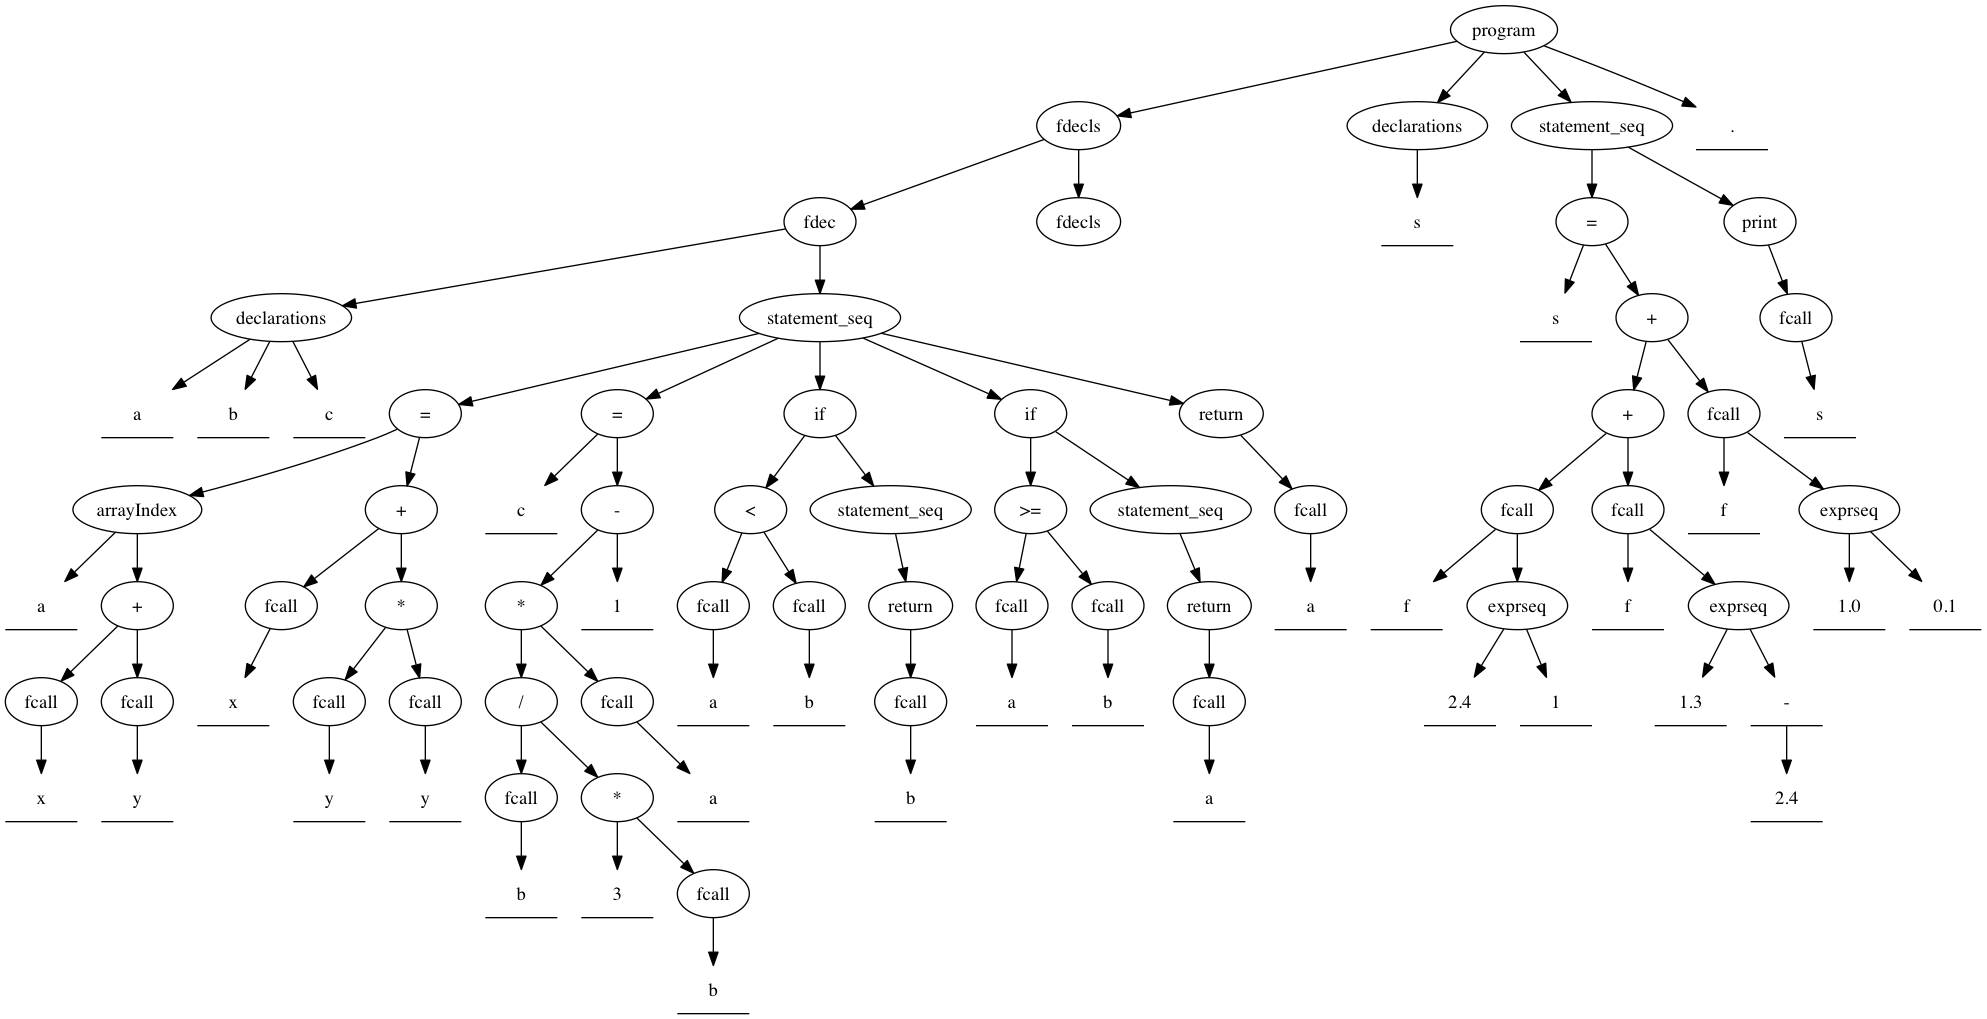
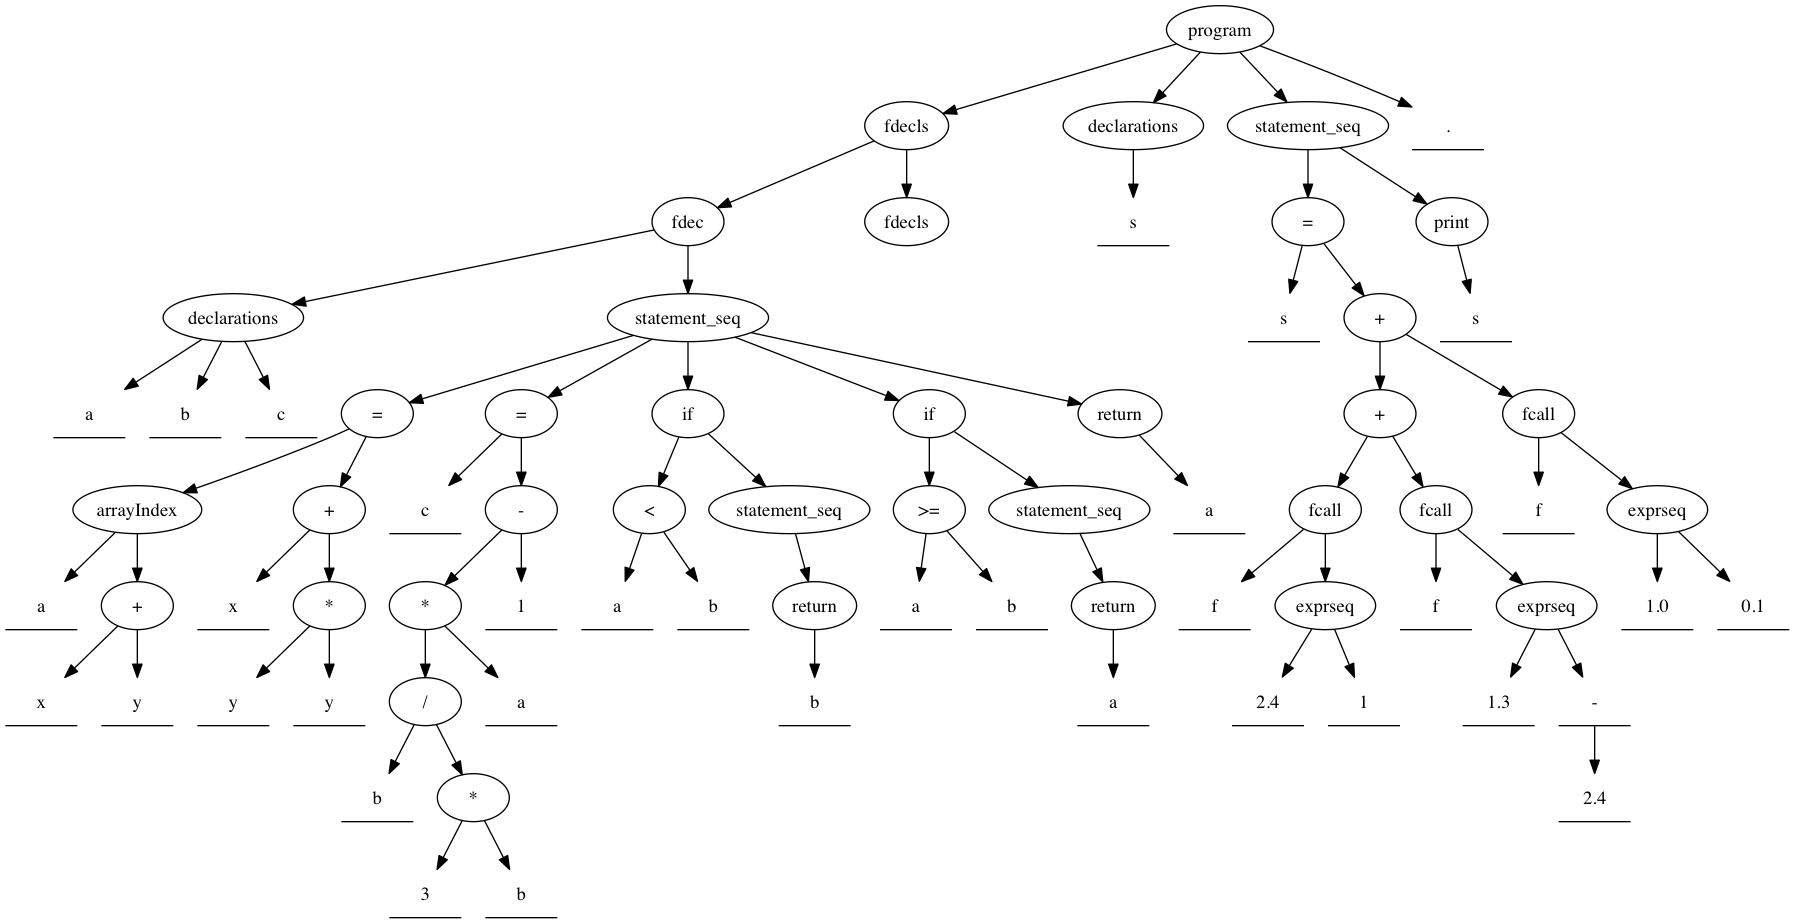
fcall only shown for function calls

diff --git a/parser.java b/parser.java
@@ -740,11 +740,8 @@ class Parser {
 
     Token ll = lookAhead();
     if (in(VAR_FIRST, ll.type)) {
-      Tree fcall = new Tree("fcall");
       Tree var = var();
-      fcall.addChild(var);
-      factorPrime(fcall);
-      return fcall;
+      return factorPrime(var);
     } else if (in(NUM_FIRST, ll.type)) {
       return match(TokenType.NUM, "");
     } else if (in(EXPR_FIRST, ll.type)) {
@@ -758,7 +755,7 @@ class Parser {
     throw new RuntimeException("Illegal state");
   }
 
-  private void factorPrime(Tree functionName) {
+  private Tree factorPrime(Tree functionName) {
     // <factor> ::= (<exprseq>) | ε
     TokenType[] FIRST = {TokenType.OPAREN};
     TokenType[] FOLLOW = {TokenType.MULT, TokenType.DIVIDE, TokenType.MOD, TokenType.PLUS, TokenType.MINUS, TokenType.CPAREN, TokenType.COMMA, TokenType.SEMICOLON, TokenType.LT, TokenType.GT, TokenType.EQ, TokenType.LE, TokenType.GE, TokenType.NE, TokenType.CSPAREN, TokenType.FI, TokenType.ELSE, TokenType.OD, TokenType.PERIOD, TokenType.FED};
@@ -766,13 +763,18 @@ class Parser {
     Token ll = lookAhead();
     if (in(FIRST, ll.type)) {
       match(TokenType.OPAREN, "");
-      functionName.addChild(exprseq(null));
+      Tree fcall = new Tree("fcall");
+      fcall.addChild(functionName);
+      fcall.addChild(exprseq(null));
       match(TokenType.CPAREN, "Missing )");
+      return fcall;
     } else if (in(FOLLOW, ll.type)) {
+      return functionName;
       // is ok now :)
     } else {
       error(ll);
     }
+    throw new IllegalStateException();
   }
 
 
